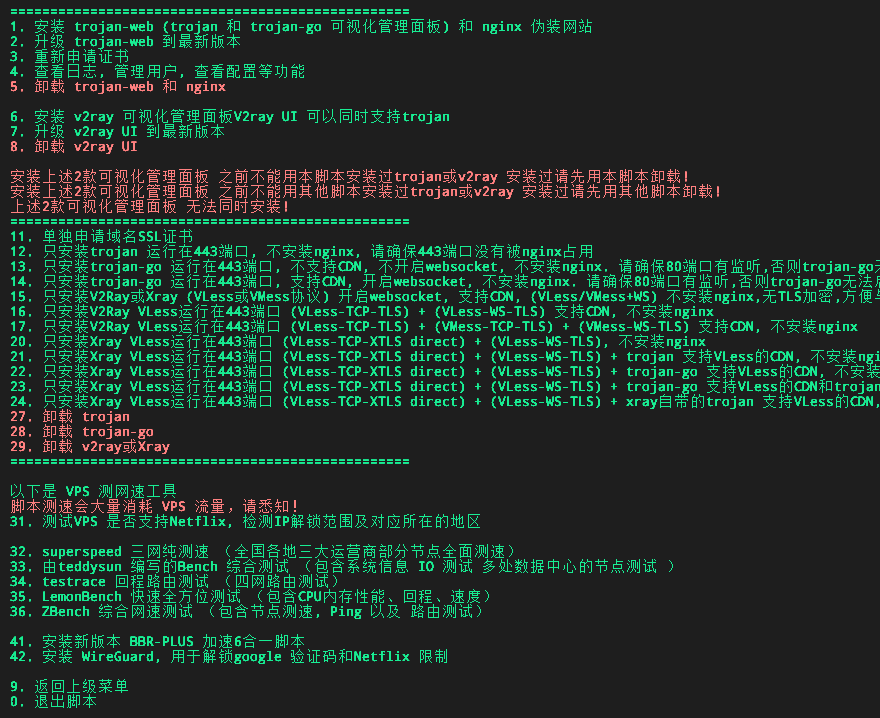
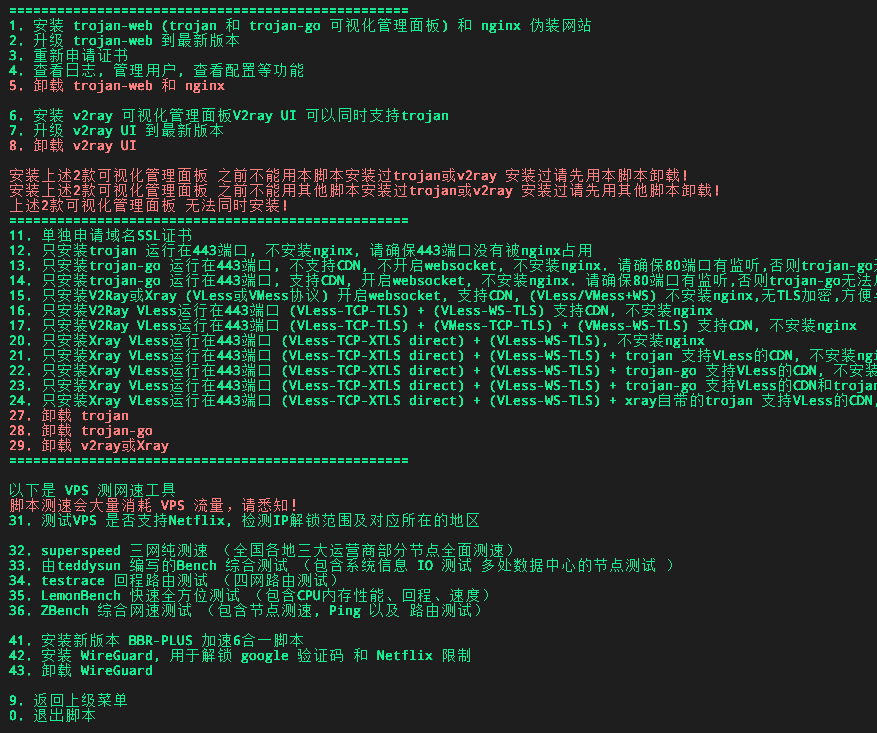
U-update

Changed region(s): [[0.0, 0.0, 1.0, 1.0], [0.3694, 0.1226, 0.5234, 0.1838]]

diff --git a/README.md b/README.md
@@ -15,10 +15,11 @@
 7. 默认会创建10个以上用户账号, 还能创建指定前缀的密码, 方便用户使用.
 8. trojan 和 v2ray 可视化管理面板安装. 
 9. 卸载后不留任何痕迹, 方便重复安装
-10. 支持 一键安装 v2board 面板的服务器端 V2Ray-Poseidon 或 soga 
-11. 本脚本没有其他偷跑服务器流量的网页或其他屏蔽bt流量的限制等
-12. 本脚本所使用端口除443和80外都是随机生成, 保证安全性, 不像其他多合一脚本写死固定端口容易被检测
-13. 本脚本不推荐安装多种v2ray的多种协议共存, 协议安装的越多安全性越低, 而且也不会提高速度, 没有必要使用多合一的脚本同时安装多个协议
+10. 一键安装wireguard, 解决google 验证码和Netflix限制问题
+11. 支持 一键安装 v2board 面板的服务器端 V2Ray-Poseidon 或 soga 
+12. 本脚本没有其他偷跑服务器流量的网页或其他屏蔽bt流量的限制等
+13. 本脚本所使用端口除443和80外都是随机生成, 保证安全性, 不像其他多合一脚本写死固定端口容易被检测
+14. 本脚本不推荐安装多种v2ray的多种协议共存, 协议安装的越多安全性越低, 而且也不会提高速度, 没有必要使用多合一的脚本同时安装多个协议
 
 ## Features English 
 1. Install V2Ray or Xray using VLESS or VMess, support all condition: VLESS+TCP+TLS / VLESS+Websocket+TLS(CDN) / VMess+TCP+TLS / VMess+Websocket+TLS(CDN)  
